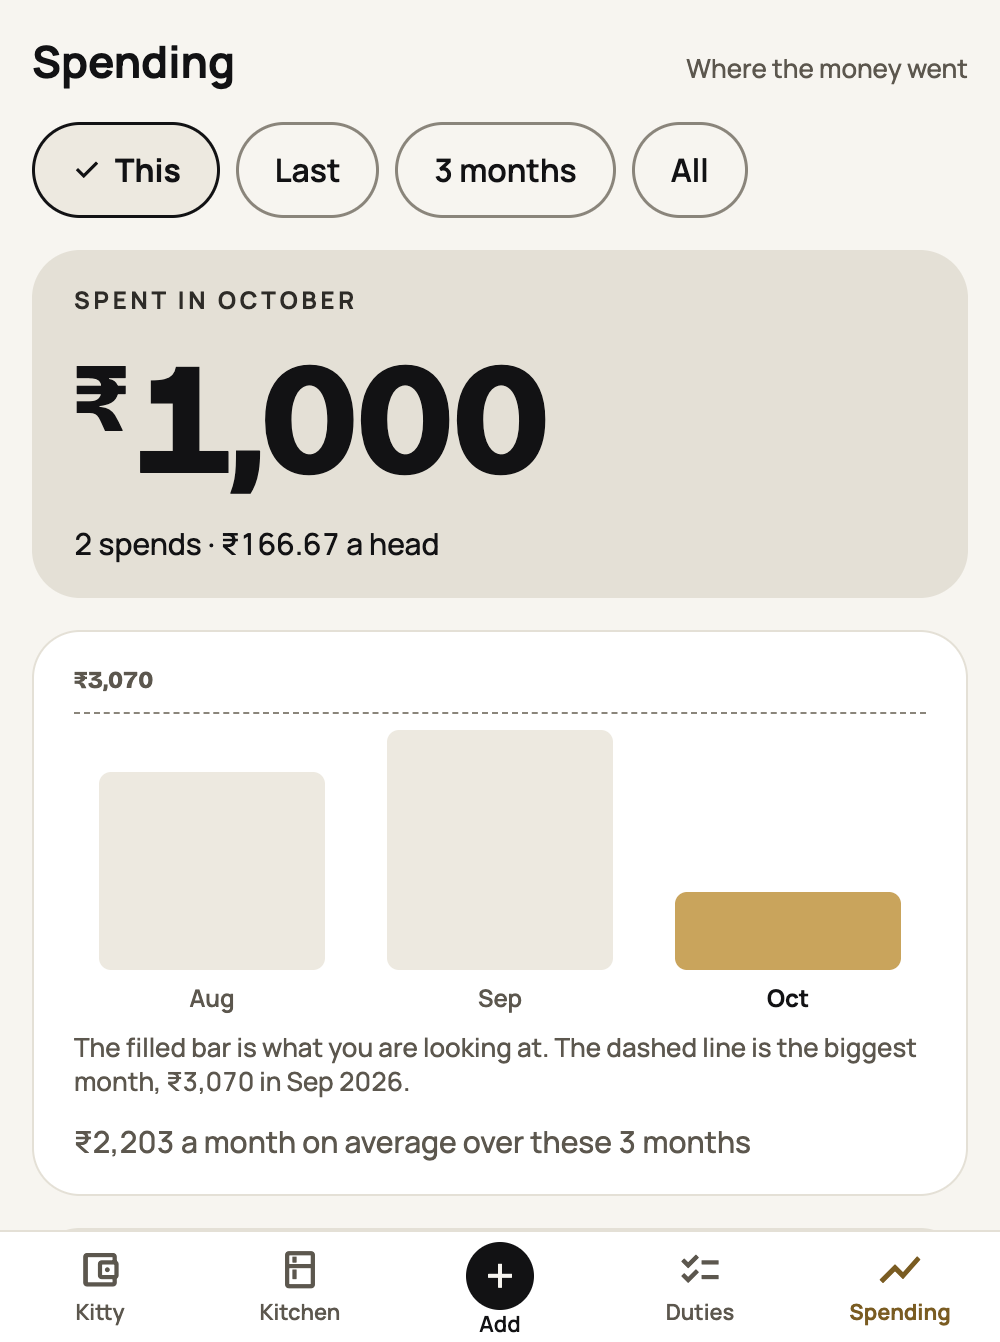
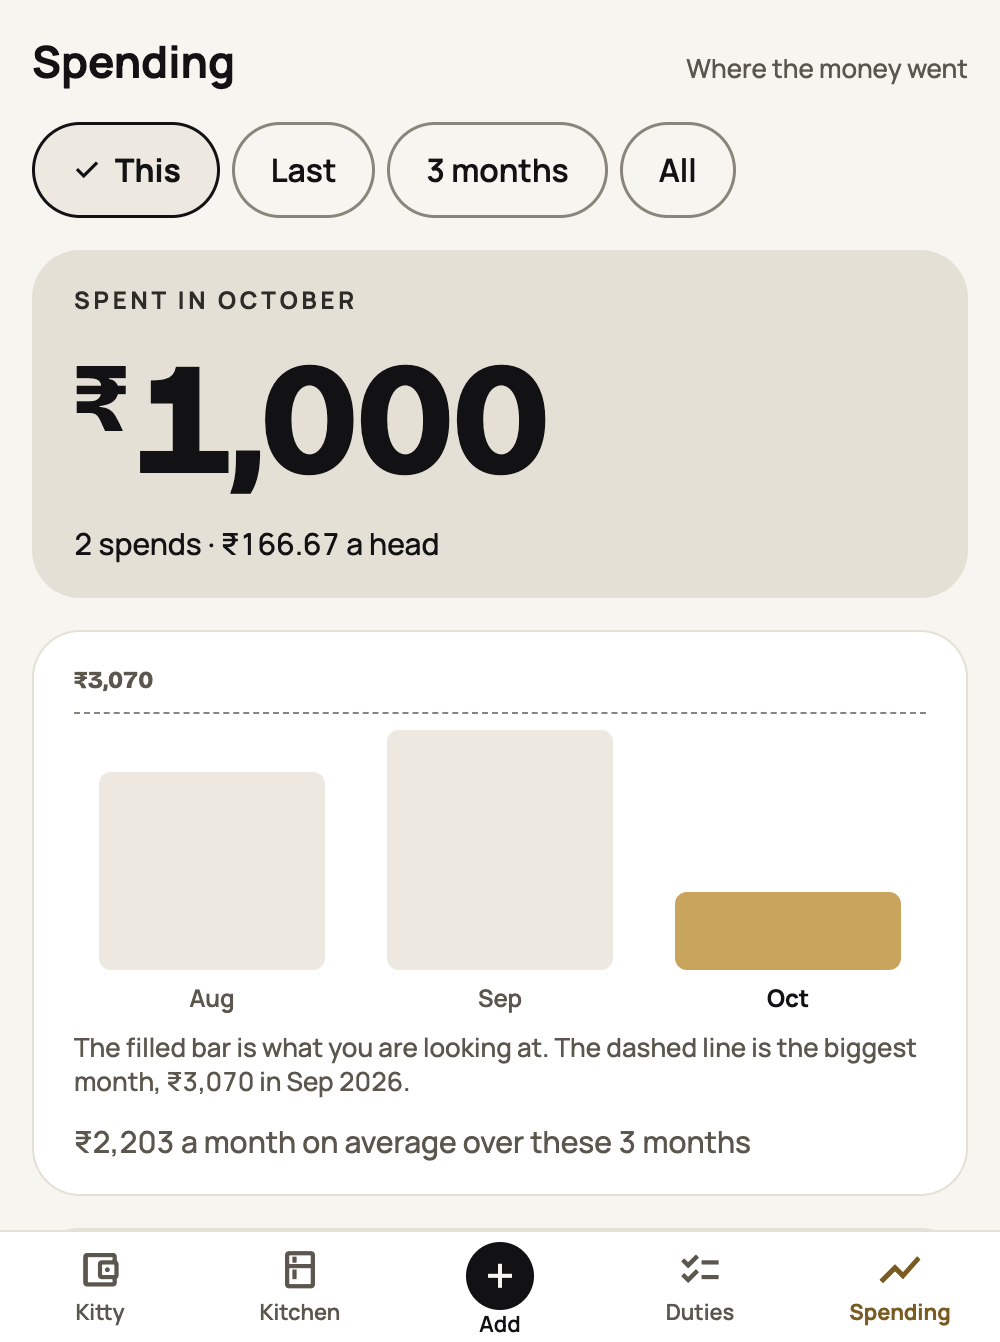
Nav review: the period chips get 6pt of slack, not 0.4pt of overflow
Measured in the browser: the four chips ended at 374.4pt with "3 months"
selected, and a 390pt phone has room to 374. Chip gap 8 → 6 puts the row at
368.4pt. The duties and stock screenshots were re-shot too, so every captured
tab bar shows the same Spending glyph.

Changed region(s): [[0.434, 0.0917, 0.744, 0.1833], [0.217, 0.0917, 0.434, 0.1528], [0.403, 0.1528, 0.434, 0.1833]]

diff --git a/src/ui/kit.tsx b/src/ui/kit.tsx
@@ -856,7 +856,9 @@ const s = StyleSheet.create({
     gap: 8,
   },
   buttonLabel: { fontFamily: UI['700'], fontSize: 17 },
-  choiceRow: { flexDirection: 'row', flexWrap: 'wrap', gap: 8 },
+  // gap 6, not 8: Spending's four period chips measure 374.4pt at gap 8, which is 0.4pt past what a
+  // 390pt phone has room for — one hair from wrapping into the ragged two rows this replaced.
+  choiceRow: { flexDirection: 'row', flexWrap: 'wrap', gap: 6 },
   chip: {
     minHeight: 48,
     paddingHorizontal: 18,
